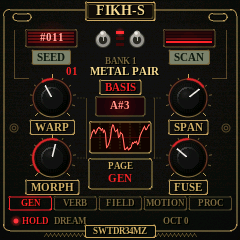
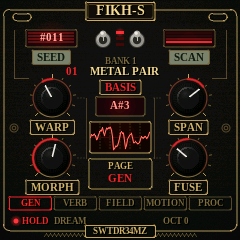
FM-1 previews: new screen recordings

Changed region(s): [[0.3792, 0.4958, 0.6417, 0.6417]]

diff --git a/index.html b/index.html
@@ -666,7 +666,7 @@
   </div>
   <div class="grid fw">
     <article class="card" data-repo="FIKH-S" data-asset=".fwsc">
-      <div class="shot"><img src="img/anim/FIKH-S.png?v=13b7b51" alt="FIKH-S screen" loading="lazy"></div>
+      <div class="shot"><img src="img/anim/FIKH-S.png?v=fcafee5" alt="FIKH-S screen" loading="lazy"></div>
       <div class="body">
         <h3>FIKH-S<span class="vers"><span class="ver" data-ver>v0.2.0</span></span></h3>
         <p>Experimental synthesis after the Forge TME VHIKK X: nine algorithms for drones, basses and textures through a metallic or diffuse delay with a frequency shifter in its feedback, then an ambient reverb after the Walrus SLÖER (Dream, Dark, Rise, Light, Rain). Seed, scan, freeze.</p>
